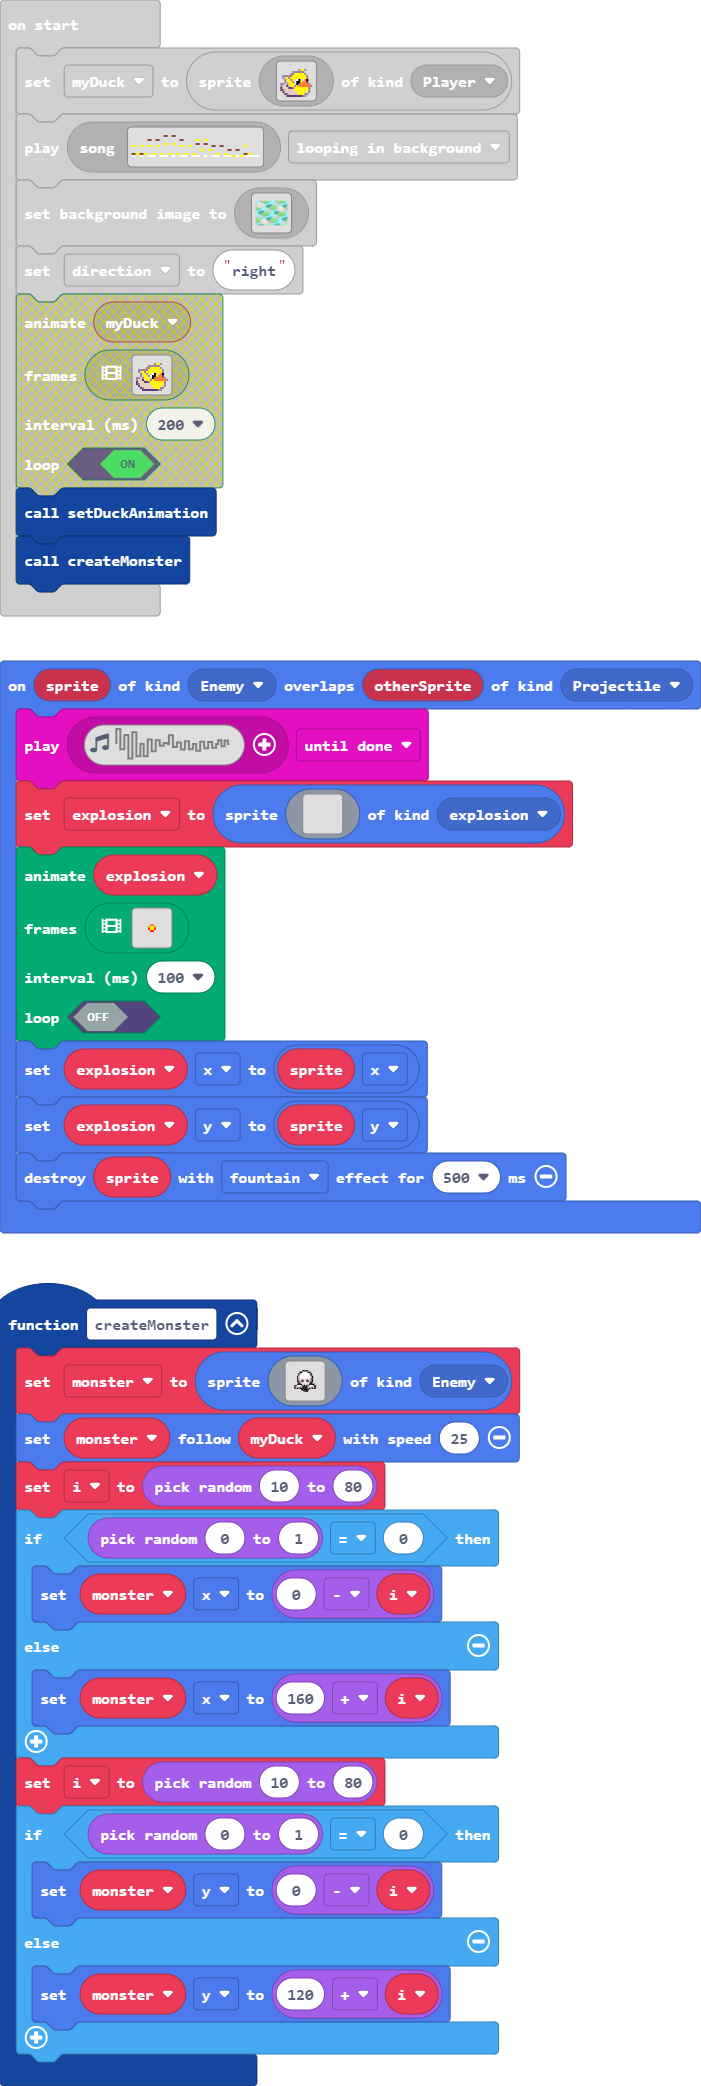
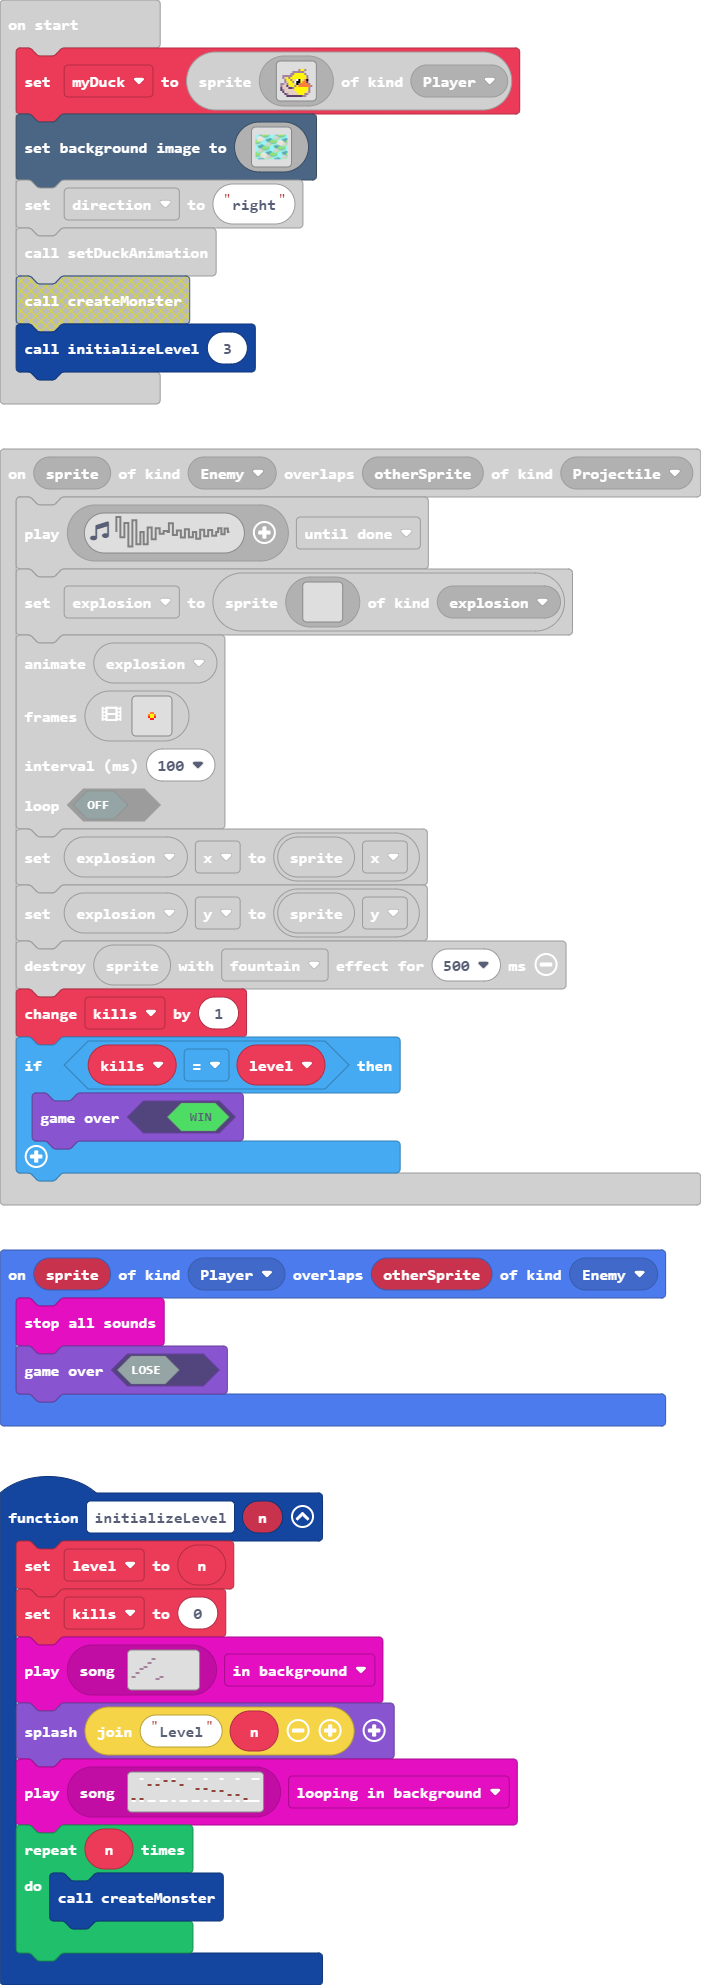
levels

diff --git a/main.ts b/main.ts
@@ -198,6 +198,10 @@ sprites.onOverlap(SpriteKind.Enemy, SpriteKind.Projectile, function (sprite, oth
     explosion.x = sprite.x
     explosion.y = sprite.y
     sprites.destroy(sprite, effects.fountain, 500)
+    kills += 1
+    if (kills == level) {
+        game.gameOver(true)
+    }
 })
 function setDuckAnimation () {
     if (direction == "right") {
@@ -468,8 +472,24 @@ controller.right.onEvent(ControllerButtonEvent.Pressed, function () {
 controller.A.onEvent(ControllerButtonEvent.Released, function () {
     setDuckAnimation()
 })
+function initializeLevel (n: number) {
+    level = n
+    kills = 0
[1 lines of base64/hex data omitted]
+    game.splash("Level" + n)
[1 lines of base64/hex data omitted]
+    for (let index = 0; index < n; index++) {
+        createMonster()
+    }
+}
+sprites.onOverlap(SpriteKind.Player, SpriteKind.Enemy, function (sprite, otherSprite) {
+    music.stopAllSounds()
+    game.gameOver(false)
+})
 let i = 0
 let monster: Sprite = null
+let level = 0
+let kills = 0
 let explosion: Sprite = null
 let projectile: Sprite = null
 let direction = ""
@@ -492,7 +512,6 @@ myDuck = sprites.create(img`
     . . c b d d d d d 5 5 5 b b . . 
     . . . c c c c c c c c b b . . . 
     `, SpriteKind.Player)
[1 lines of base64/hex data omitted]
 scene.setBackgroundImage(img`
[2 lines of base64/hex data omitted]
@@ -617,7 +636,7 @@ scene.setBackgroundImage(img`
     `)
 direction = "right"
 setDuckAnimation()
-createMonster()
+initializeLevel(3)
 game.onUpdate(function () {
     controller.moveSprite(myDuck)
     if (myDuck.x < 0) {
